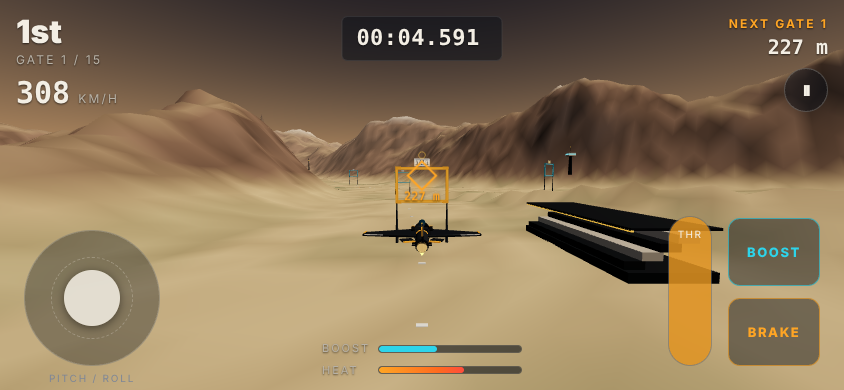
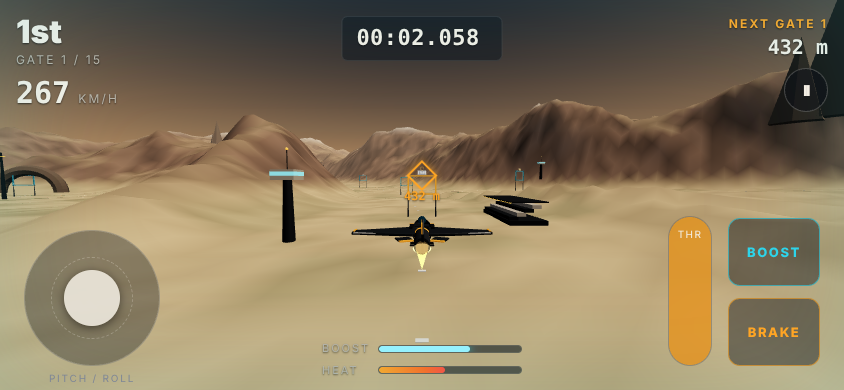
Bring the chase camera about 30% closer to the aircraft
Follow distance 17 m → 12.5 m and height 5.2 m → 4.0 m; base FOV 64° → 62°
so the zoom comes from distance rather than distortion. Speed and boost
still pull the camera back slightly (less than before) and widen the FOV
by at most 12°. HUD, menus and touch controls are DOM overlays and are
unaffected. Adds ChaseCamera framing tests and refreshes the race
screenshots.

Claude-Session: https://claude.ai/code/session_01RrMsdLL3KTrsSEUJWtnWsM

diff --git a/src/camera/ChaseCamera.ts b/src/camera/ChaseCamera.ts
@@ -10,6 +10,12 @@ const _gateDir = new Vector3();
 const _worldUp = new Vector3(0, 1, 0);
 const _blendUp = new Vector3();
 
+/** Base vertical field of view. Kept close to the original so the zoom comes from distance, not distortion. */
+export const BASE_FOV = 62;
+/** Extra follow distance at top speed and while boosting, so speed still reads. */
+const SPEED_STRETCH = 2.5;
+const BOOST_STRETCH = 1.5;
+
 /**
  * Smooth third-person chase camera.
  * Sits behind and above the aircraft, blends its roll partially with the
@@ -21,10 +27,12 @@ export class ChaseCamera {
   private readonly position = new Vector3();
   private readonly target = new Vector3();
   private readonly upVector = new Vector3(0, 1, 0);
-  private fov = 64;
+  private fov = BASE_FOV;
   private initialised = false;
-  distance = 17;
-  height = 5.2;
+  /** Follow distance behind the aircraft at rest (m). ~30% closer than the original 17 m. */
+  distance = 12.5;
+  /** Camera height above the aircraft (m). */
+  height = 4.0;
   positionDamping = 7;
   targetDamping = 10;
   rollFollow = 0.45;
@@ -50,8 +58,8 @@ export class ChaseCamera {
     _blendUp.copy(_worldUp).lerp(_up, this.rollFollow).normalize();
 
     const speedFactor = clamp(state.speed / 140, 0, 1);
-    const boostStretch = state.boosting ? 2.5 : 0;
-    const distance = this.distance + speedFactor * 4 + boostStretch;
+    const boostStretch = state.boosting ? BOOST_STRETCH : 0;
+    const distance = this.distance + speedFactor * SPEED_STRETCH + boostStretch;
     _desired.copy(state.position).addScaledVector(_forward, -distance).addScaledVector(_blendUp, this.height);
 
     // Look ahead of the nose, nudged toward the next gate.
@@ -79,7 +87,7 @@ export class ChaseCamera {
       this.upVector.lerp(_blendUp, targetT).normalize();
     }
 
-    const targetFov = 64 + speedFactor * 8 + (state.boosting ? 8 : 0);
+    const targetFov = BASE_FOV + speedFactor * 6 + (state.boosting ? 6 : 0);
     this.fov = damp(this.fov, targetFov, 4, dt);
     this.camera.fov = this.fov;
     this.camera.updateProjectionMatrix();
@@ -87,6 +95,11 @@ export class ChaseCamera {
     this.camera.position.copy(this.position);
     this.camera.up.copy(this.upVector);
     this.camera.lookAt(this.target);
+  }
+
+  /** Distance from the camera to the aircraft (m); exposed for tests. */
+  distanceToAircraft(state: FlightState): number {
+    return this.camera.position.distanceTo(state.position);
   }
 
   /** Quaternion helper for garage presentation reuse. */

diff --git a/src/camera/ChaseCamera.test.ts b/src/camera/ChaseCamera.test.ts
@@ -1,0 +1,62 @@
+import { describe, expect, it } from 'vitest';
+import { Quaternion, Vector3 } from 'three';
+import { ChaseCamera, BASE_FOV } from './ChaseCamera';
+import { createFlightState } from '../flight/FlightModel';
+
+const state = (speed: number, boosting = false) => {
+  const s = createFlightState(new Vector3(0, 100, 0), new Quaternion(), speed);
+  s.boosting = boosting;
+  return s;
+};
+
+/** Longest half-extent of any aircraft model (the Needle is 10.6 m long). */
+const AIRCRAFT_HALF_LENGTH = 5.5;
+
+describe('ChaseCamera framing', () => {
+  it('sits about 30% closer than the original 17 m follow distance', () => {
+    const camera = new ChaseCamera(16 / 9);
+    const s = state(0);
+    camera.snap(s);
+    const distance = camera.distanceToAircraft(s);
+    const original = Math.hypot(17, 5.2);
+    expect(distance).toBeLessThan(original * 0.75);
+    expect(distance).toBeGreaterThan(original * 0.6);
+  });
+
+  it('never puts the aircraft inside the near plane, even at rest', () => {
+    const camera = new ChaseCamera(844 / 390);
+    const s = state(0);
+    camera.snap(s);
+    expect(camera.distanceToAircraft(s) - AIRCRAFT_HALF_LENGTH).toBeGreaterThan(camera.camera.near + 2);
+  });
+
+  it('keeps the field of view close to the base value (no fish-eye)', () => {
+    const camera = new ChaseCamera(16 / 9);
+    camera.snap(state(0));
+    expect(camera.camera.fov).toBeCloseTo(BASE_FOV, 0);
+    const fast = state(140, true);
+    for (let i = 0; i < 300; i += 1) camera.update(fast, 1 / 60);
+    expect(camera.camera.fov).toBeLessThanOrEqual(BASE_FOV + 13);
+  });
+
+  it('pulls back slightly with speed and boost so speed still reads', () => {
+    const camera = new ChaseCamera(16 / 9);
+    const slow = state(0);
+    camera.snap(slow);
+    const near = camera.distanceToAircraft(slow);
+    const fast = state(140, true);
+    camera.snap(fast);
+    const far = camera.distanceToAircraft(fast);
+    expect(far).toBeGreaterThan(near + 2);
+    expect(far).toBeLessThan(near + 6);
+  });
+
+  it('looks ahead of the aircraft, not at it, so the route stays visible', () => {
+    const camera = new ChaseCamera(16 / 9);
+    const s = state(80);
+    camera.snap(s, new Vector3(0, 100, 600));
+    const forward = new Vector3();
+    camera.camera.getWorldDirection(forward);
+    expect(forward.z).toBeGreaterThan(0.9);
+  });
+});
